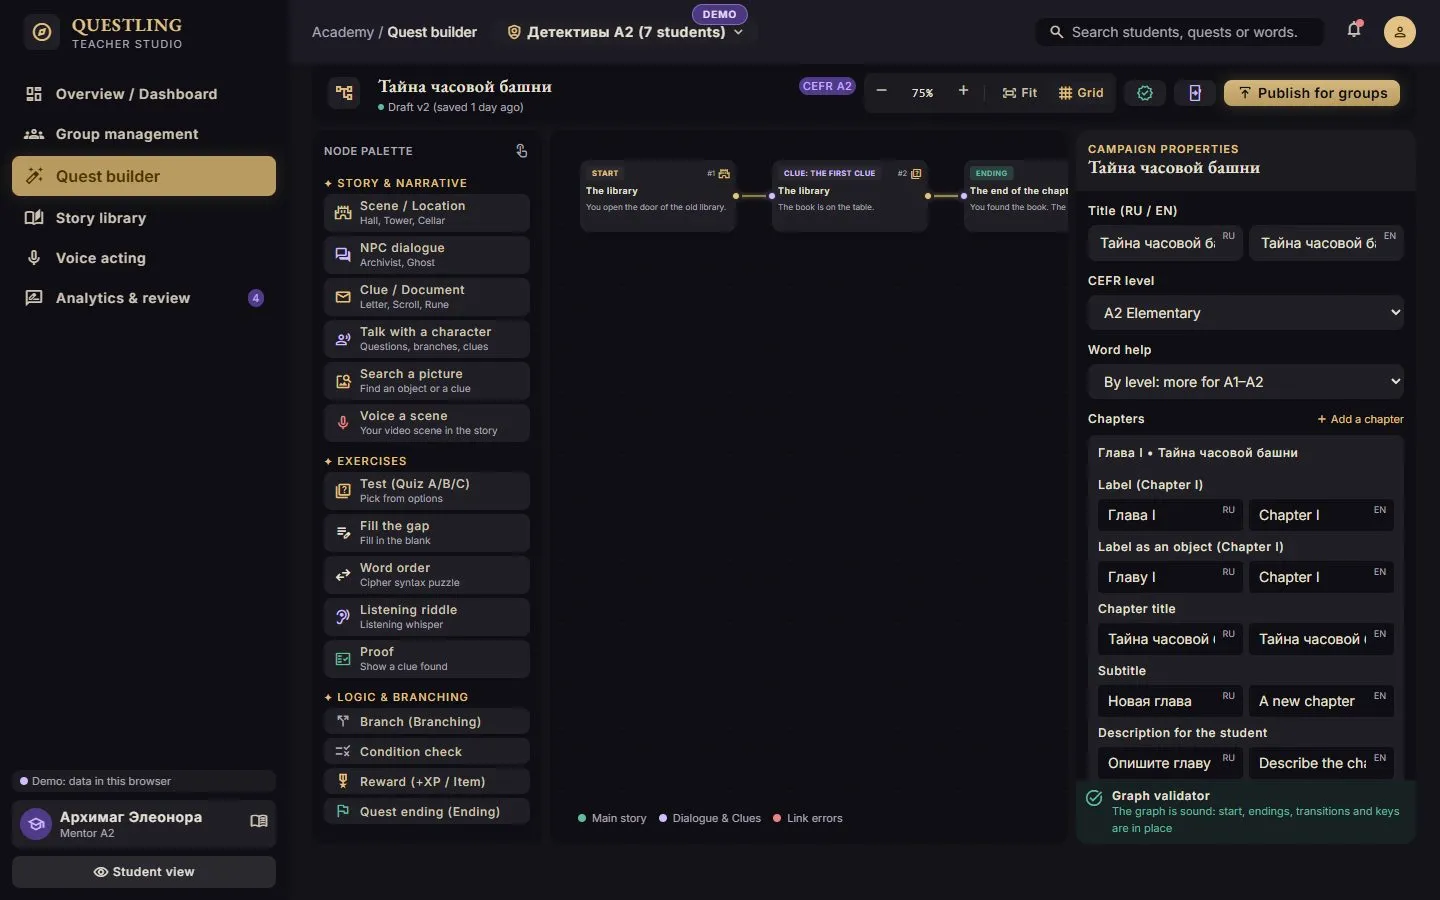
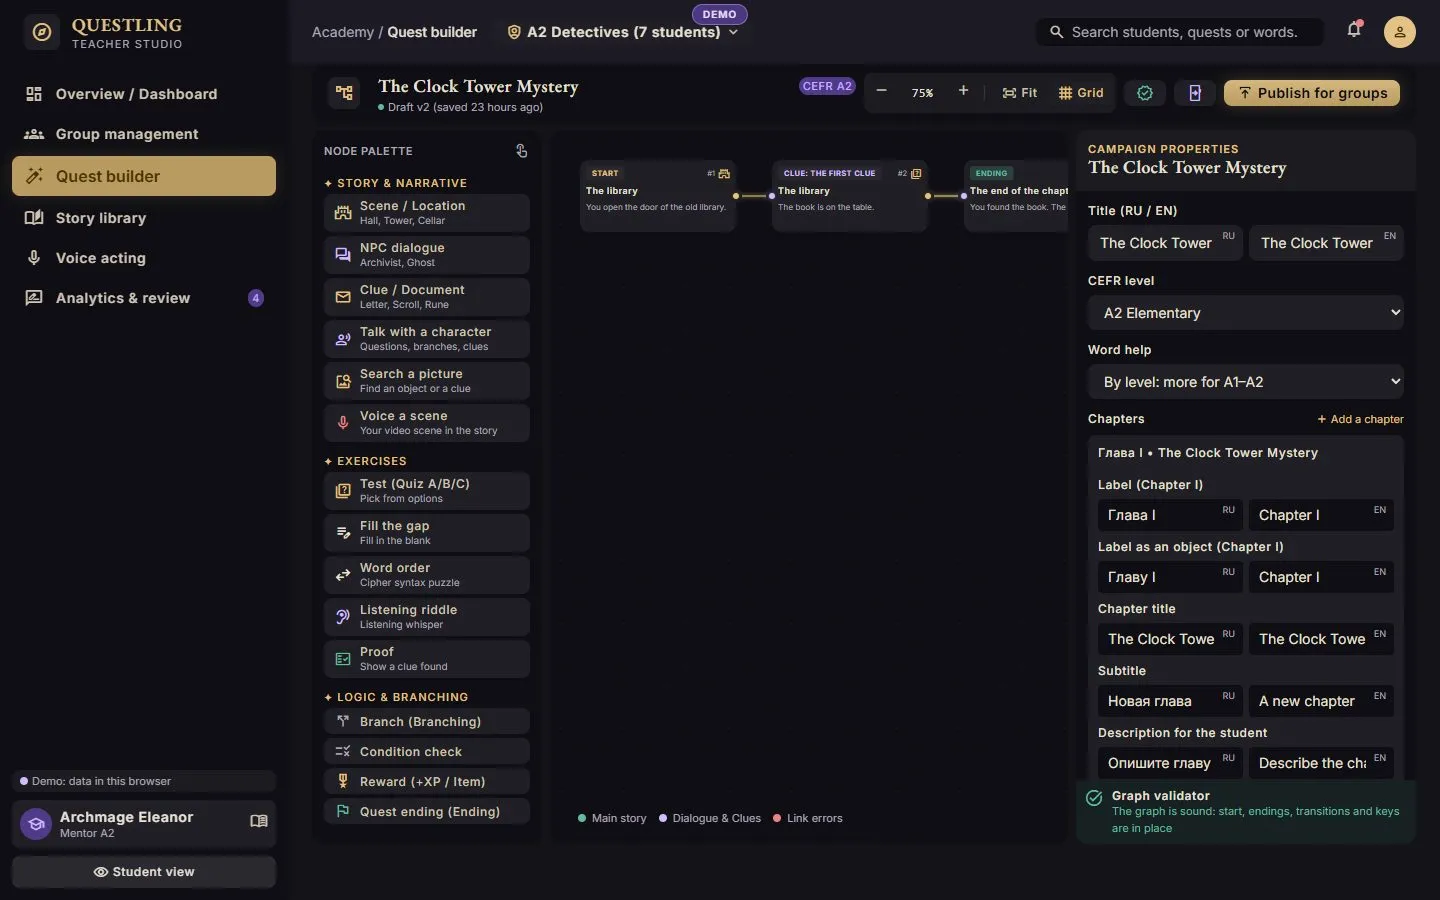
questling: retake portfolio screenshots; portfolio-site: wardrobe shot and five phone columns
The new Questling shots show the demo badge in its own strip and the English Teacher Studio with
English names. The site gains the wardrobe shot and lays out phone shots in up to five columns.

diff --git a/portfolio-site/lib/projects.ts b/portfolio-site/lib/projects.ts
@@ -196,6 +196,7 @@ export const projects: Project[] = [
       { file: "studio-analytics.webp", source: "questling/docs/screenshots/studio-analytics.jpg", kind: "desktop", caption: { en: "Teacher Studio: help queue and answers", ru: "Студия учителя: очередь помощи и ответы" } },
       { file: "home.webp", source: "questling/docs/screenshots/home.jpg", kind: "phone", caption: { en: "Student home: hero, chapter, daily quests", ru: "Главная ученика: герой, глава, квесты дня" } },
       { file: "story-player.webp", source: "questling/docs/screenshots/story-player.jpg", kind: "phone", caption: { en: "Story player: a clue question", ru: "Плеер истории: вопрос-улика" } },
+      { file: "wardrobe.webp", source: "questling/docs/screenshots/wardrobe.jpg", kind: "phone", caption: { en: "Wardrobe: layered equipment on the hero", ru: "Гардероб: экипировка героя слоями" } },
       { file: "story-map.webp", source: "questling/docs/screenshots/story-map.jpg", kind: "phone", caption: { en: "Story map", ru: "Карта истории" } },
       { file: "word-journal.webp", source: "questling/docs/screenshots/word-journal.jpg", kind: "phone", caption: { en: "Word journal", ru: "Словарь" } },
     ],

diff --git a/portfolio-site/app/[lang]/projects/[slug]/page.tsx b/portfolio-site/app/[lang]/projects/[slug]/page.tsx
@@ -123,7 +123,7 @@ export default async function ProjectPage({ params }: PageProps<"/[lang]/project
               ))}
             </ul>
             {phones.length > 0 && (
-              <ul className="mt-8 grid grid-cols-2 gap-4 sm:grid-cols-3 lg:grid-cols-4">
+              <ul className="mt-8 grid grid-cols-2 gap-4 sm:grid-cols-3 lg:grid-cols-5">
                 {phones.map((s) => (
                   <li key={s.file}>
                     <figure>

diff --git a/showcase/questling/screenshots.md b/showcase/questling/screenshots.md
@@ -1,7 +1,7 @@
 # Questling - screenshots
 
 Selected for the portfolio. Taken from the live demo (a fresh demo student and the demo studio,
-invented names) on 2026-10-27 with `node scripts/portfolio-shots.mjs`. Paths are relative to this
+invented names) on 2026-10-28 with `node scripts/portfolio-shots.mjs`. Paths are relative to this
 file.
 
 | File | View | Size | Shows |
@@ -14,5 +14,5 @@ file.
 
 Also available: `story-map.jpg`, `word-journal.jpg`, `home-ru.jpg` (Russian), `studio-dashboard.jpg`.
 
-Known cosmetic issues visible in the shots: the "Demo" badge overlaps the wardrobe title; in the
-English studio the demo group and student names are in Russian.
+The "Demo" badge at the top of the student screens marks the public demo; it sits in its own strip
+and covers nothing. Russian words in the word journal are the learners' translations.
